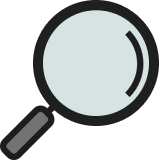
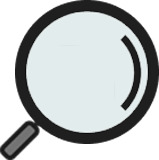
Added new loading animation

diff --git a/client/src/components/AnimatedLoading/AnimatedLoading.jsx b/client/src/components/AnimatedLoading/AnimatedLoading.jsx
@@ -1,0 +1,78 @@
+import {
+    View,
+    ActivityIndicator,
+    Animated,
+  } from "react-native"
+  import React, { useEffect, useRef, useState } from "react"
+  import LoadingStyles from "./AnimatedLoading.styles"
+  import SearchIcon from "../../../assets/MagnifyingGlass.png"
+
+
+const AnimatedLoader = (args) => {
+    const positionX = args.positionX
+    const positionY = args.positionY
+    const squareLength = args.squareLength
+
+    
+    const originSize = 60
+    const scaler = (squareLength / 200)
+    const size = originSize * scaler
+    const maxDistance = squareLength - size - 2;
+    const minDistance = 2
+    
+    const randValue = () => {  
+        let random = (Math.random() * maxDistance) + minDistance; // Generate a random number between minDistance and maxDistance
+        return random
+    }
+
+    const center = (squareLength / 2) - (size / 2)
+    const position = useRef(new Animated.ValueXY({ x: center, y: center })).current
+    const delay = 800
+
+    useEffect(() => {
+        const moveAnimation = Animated.loop(
+            Animated.sequence([
+                Animated.timing(position, {toValue: {x: randValue(), y: randValue()}, duration: delay, useNativeDriver: true}),
+                Animated.timing(position, {toValue: {x: randValue(), y: randValue()}, duration: delay, useNativeDriver: true}),
+                Animated.timing(position, {toValue: {x: randValue(), y: randValue()}, duration: delay, useNativeDriver: true}),
+                Animated.timing(position, {toValue: {x: randValue(), y: randValue()}, duration: delay, useNativeDriver: true}),
+                Animated.timing(position, {toValue: {x: randValue(), y: randValue()}, duration: delay, useNativeDriver: true}),
+                Animated.timing(position, {toValue: {x: randValue(), y: randValue()}, duration: delay, useNativeDriver: true}),
+                Animated.timing(position, {toValue: {x: randValue(), y: randValue()}, duration: delay, useNativeDriver: true}),
+                Animated.timing(position, {toValue: {x: randValue(), y: randValue()}, duration: delay, useNativeDriver: true}),
+                Animated.timing(position, {toValue: {x: randValue(), y: randValue()}, duration: delay, useNativeDriver: true}),
+                Animated.timing(position, {toValue: {x: randValue(), y: randValue()}, duration: delay, useNativeDriver: true}),
+                Animated.timing(position, {toValue: {x: randValue(), y: randValue()}, duration: delay, useNativeDriver: true}),
+                Animated.timing(position, {toValue: {x: randValue(), y: randValue()}, duration: delay, useNativeDriver: true}),
+                Animated.timing(position, {toValue: {x: randValue(), y: randValue()}, duration: delay, useNativeDriver: true}),
+                Animated.timing(position, {toValue: {x: randValue(), y: randValue()}, duration: delay, useNativeDriver: true}),
+                Animated.timing(position, {toValue: {x: randValue(), y: randValue()}, duration: delay, useNativeDriver: true}),
+                Animated.timing(position, {toValue: {x: randValue(), y: randValue()}, duration: delay, useNativeDriver: true}),
+                Animated.timing(position, {toValue: {x: randValue(), y: randValue()}, duration: delay, useNativeDriver: true}),
+                Animated.timing(position, {toValue: {x: randValue(), y: randValue()}, duration: delay, useNativeDriver: true}),
+                Animated.timing(position, {toValue: {x: randValue(), y: randValue()}, duration: delay, useNativeDriver: true}),
+                Animated.timing(position, {toValue: {x: randValue(), y: randValue()}, duration: delay, useNativeDriver: true}),
+                Animated.timing(position, {toValue: {x: center, y: center}, duration: delay, useNativeDriver: true}),
+            ])
+        )
+
+        moveAnimation.start();
+
+        return () => {
+            moveAnimation.stop();
+        };
+
+    }, []);
+
+    const animatedStyle = {
+        transform: position.getTranslateTransform(),
+      };
+
+    return (
+        <View style={[LoadingStyles.loadingContainer, {top: (positionY - (squareLength / 2)), left: positionX - (squareLength / 2), width: squareLength, height: squareLength}]}>
+            <Animated.Image style={[{height: size, width: size}, animatedStyle]} source={SearchIcon} />
+        </View>
+    )
+}
+
+export default AnimatedLoader

diff --git a/client/src/components/FruitIcon/FruitIcon.jsx b/client/src/components/FruitIcon/FruitIcon.jsx
@@ -5,7 +5,7 @@ import apple from "../../../assets/fruit_icons/apple.png"
 import avocado from "../../../assets/fruit_icons/avocado.png"
 import banana from "../../../assets/fruit_icons/banana.png"
 import bell_pepper from "../../../assets/fruit_icons/bell_pepper.png"
-import black_berry from "../../../assets/fruit_icons/black_berry.png"
+import black_berry from "../../../assets/fruit_icons/blackberry.png"
 import blueberry from "../../../assets/fruit_icons/blueberry.png"
 import coconut from "../../../assets/fruit_icons/coconut.png"
 import cherry from "../../../assets/fruit_icons/cherry.png"
@@ -28,12 +28,11 @@ import nectarine from "../../../assets/fruit_icons/nectarine.png"
 import olive from "../../../assets/fruit_icons/olive.png"
 import orange from "../../../assets/fruit_icons/orange.png"
 import papaya from "../../../assets/fruit_icons/papaya.png"
-import pea from "../../../assets/fruit_icons/pea.png"
 import pear from "../../../assets/fruit_icons/pear.png"
 import passion_fruit from "../../../assets/fruit_icons/passion_fruit.png"
- import physalis from "../../../assets/fruit_icons/physalis.png"
+import physalis from "../../../assets/fruit_icons/physalis.png"
 import pineapple from "../../../assets/fruit_icons/pineapple.png"
- import pumpkin from "../../../assets/fruit_icons/pumpkin.png"
+import pumpkin from "../../../assets/fruit_icons/pumpkin.png"
 import raspberry from "../../../assets/fruit_icons/raspberry.png"
 import strawberry from "../../../assets/fruit_icons/strawberry.png"
 import tomato from "../../../assets/fruit_icons/tomato.png"
@@ -47,40 +46,40 @@ const FruitIcon = ({ fruitName, sideLength }) => {
     avocado: avocado,
     banana: banana,
     "bell pepper": bell_pepper,
-    //"black berry": black_berry,
+    "black berry": black_berry,
     blueberry: blueberry,
     cherry: cherry,
     clementine: orange,
     coconut: coconut,
-    //cranberry: cranberry,
-    // date: date,
-    //dragonfruit: dragonfruit,
+    cranberry: cranberry,
+    //date: date,
+    dragonfruit: dragonfruit,
     durian: durian,
     eggplant: eggplant,
-    // fig: fig,
+    fig: fig,
     grape: grape,
-    // grapefruit: grapefruit,
-    // guava: guava,
+    grapefruit: grapefruit,
+    guava: guava,
     jalapeno: jalapeno,
     kiwi: kiwi,
     lemon: lemon,
-    //lime: lime,
-    // lychee: lychee,
+    lime: lime,
+    lychee: lychee,
     mango: mango,
     nectarine: nectarine,
-    //olive: olive,
+    olive: olive,
     orange: orange,
     papaya: papaya,
-    // "passion fruit": passion_fruit,
+    "passion fruit": passion_fruit,
     pear: pear,
-    // physalis: physalis,
+    physalis: physalis,
     pineapple: pineapple,
-    // pumpkin: pumpkin,
+    pumpkin: pumpkin,
     raspberry: raspberry,
     strawberry: strawberry,
     tomato: tomato,
     watermelon: watermelon,
-    //zucchini: zucchini,
+    zucchini: zucchini,
   }
 
   const fruitIconSource = fruitIcons[fruitName] || defaultIcon

diff --git a/client/src/screens/Preview/Preview.jsx b/client/src/screens/Preview/Preview.jsx
@@ -8,6 +8,7 @@ import {
 import React, { useState } from "react"
 import PreviewStyles from "./Preview.styles"
 import MovableSquare from "../../components/MovableSquare/MovableSquare.jsx"
+import AnimatedLoader from "../../components/AnimatedLoading/AnimatedLoading"
 import ImageCropper from "../../utils/ImageCropper.js"
 import uploadImage from "../../utils/uploadImage"
 import { StatusBar } from "expo-status-bar"
@@ -97,9 +98,7 @@ const Preview = ({ navigation, route }) => {
       />
       {buttonDisabled ? 
         (
-        <View style={[PreviewStyles.loadingContainer, {top: (position.y - (squareLength / 2)), left: position.x - (squareLength / 2), width: squareLength, height: squareLength}]}>
-            <ActivityIndicator size="large" color="#ffffff" style={PreviewStyles.loadingIcon} scale={5} />
-        </View>
+          <AnimatedLoader positionX={position.x} positionY={position.y} squareLength={squareLength} />
         ): null
       }
     </View>

diff --git a/client/src/components/AnimatedLoading/AnimatedLoading.styles.js b/client/src/components/AnimatedLoading/AnimatedLoading.styles.js
@@ -1,0 +1,18 @@
+import { StyleSheet } from "react-native"
+
+const styles = StyleSheet.create({
+    loadingContainer: {
+        position: "absolute",
+        backgroundColor: "transparent",
+        zIndex: 1000,
+      },
+      loadingIcon: {
+        flex: 1,
+        position: "absolute",
+        height: "10%",
+        width: "10%",
+        left: "45%",
+        top: "45%"
+      }
+  })
+export default styles
